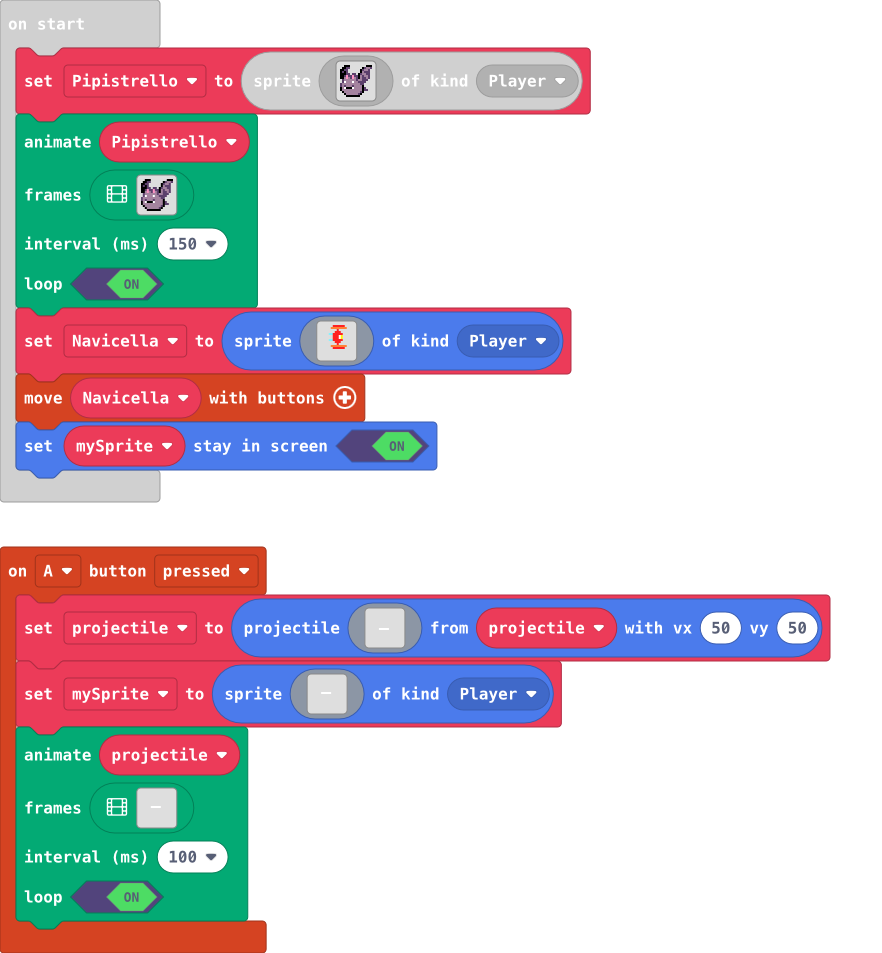
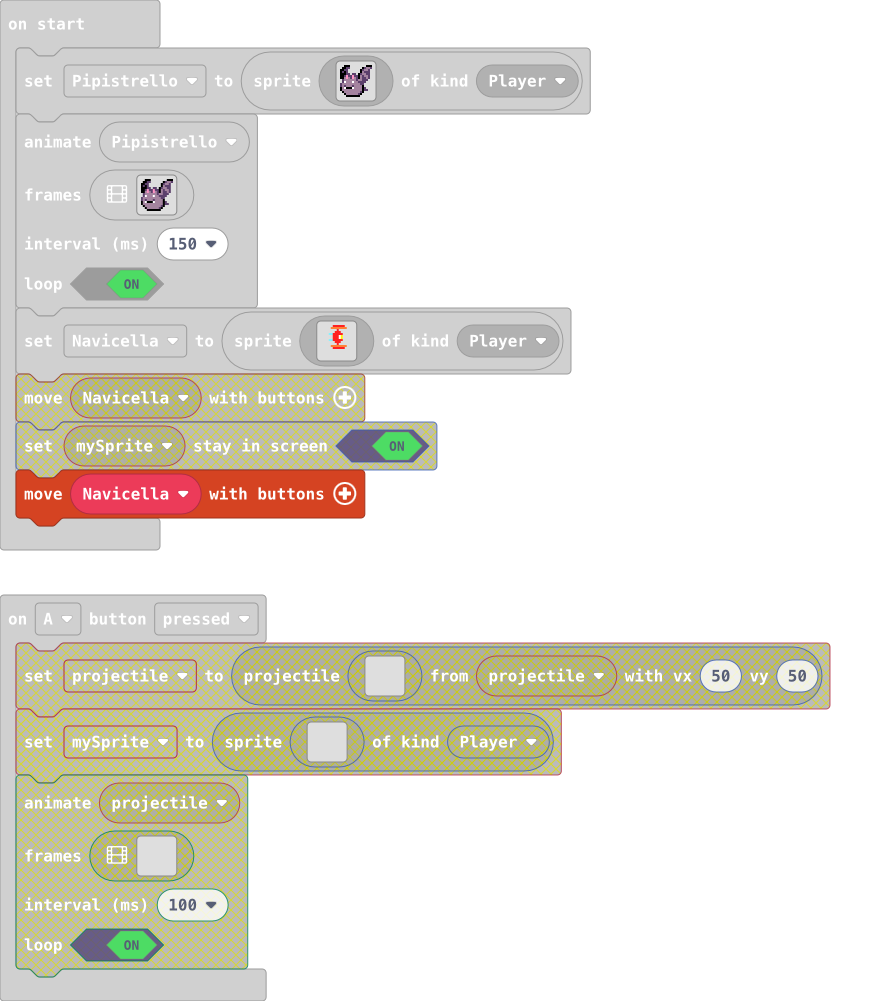
Update pxt.json, main.blocks, main.ts

diff --git a/main.ts b/main.ts
@@ -1,66 +1,6 @@
 controller.A.onEvent(ControllerButtonEvent.Pressed, function () {
-    projectile = sprites.createProjectileFromSprite(img`
-        . . . . . . . . . . . . . . . . 
-        . . . . . . . . . . . . . . . . 
-        . . . . . . . . . . . . . . . . 
-        . . . . . . . . . . . . . . . . 
-        . . . . . . . . . . . . . . . . 
-        . . . . . . . . . . . . . . . . 
-        . . . . . . . . . . . . . . . . 
-        . . . . . . . . . . . . . . . . 
-        . . . . . 1 1 1 1 1 . . . . . . 
-        . . . . . . . . . . . . . . . . 
-        . . . . . . . . . . . . . . . . 
-        . . . . . . . . . . . . . . . . 
-        . . . . . . . . . . . . . . . . 
-        . . . . . . . . . . . . . . . . 
-        . . . . . . . . . . . . . . . . 
-        . . . . . . . . . . . . . . . . 
-        `, projectile, 50, 50)
-    mySprite = sprites.create(img`
-        . . . . . . . . . . . . . . . . 
-        . . . . . . . . . . . . . . . . 
-        . . . . . . . . . . . . . . . . 
-        . . . . . . . . . . . . . . . . 
-        . . . . . . . . . . . . . . . . 
-        . . . . . . . . . . . . . . . . 
-        . . . . . . . . . . . . . . . . 
-        . . . . . 1 1 1 1 1 . . . . . . 
-        . . . . . . . . . . . . . . . . 
-        . . . . . . . . . . . . . . . . 
-        . . . . . . . . . . . . . . . . 
-        . . . . . . . . . . . . . . . . 
-        . . . . . . . . . . . . . . . . 
-        . . . . . . . . . . . . . . . . 
-        . . . . . . . . . . . . . . . . 
-        . . . . . . . . . . . . . . . . 
-        `, SpriteKind.Player)
-    animation.runImageAnimation(
-    projectile,
-    [img`
-        . . . . . . . . . . . . . . . . 
-        . . . . . . . . . . . . . . . . 
-        . . . . . . . . . . . . . . . . 
-        . . . . . . . . . . . . . . . . 
-        . . . . . . . . . . . . . . . . 
-        . . . . . . . . . . . . . . . . 
-        . . . . . . . . . . . . . . . . 
-        . . . . . 1 1 1 1 1 . . . . . . 
-        . . . . . . . . . . . . . . . . 
-        . . . . . . . . . . . . . . . . 
-        . . . . . . . . . . . . . . . . 
-        . . . . . . . . . . . . . . . . 
-        . . . . . . . . . . . . . . . . 
-        . . . . . . . . . . . . . . . . 
-        . . . . . . . . . . . . . . . . 
-        . . . . . . . . . . . . . . . . 
-        `],
-    100,
-    true
-    )
+	
 })
-let projectile: Sprite = null
-let mySprite: Sprite = null
 let Pipistrello = sprites.create(assets.image`Pipistrello`, SpriteKind.Player)
 animation.runImageAnimation(
 Pipistrello,
@@ -155,4 +95,3 @@ let Navicella = sprites.create(img`
     . . . . . . . . . . . . . . . . 
     `, SpriteKind.Player)
 controller.moveSprite(Navicella)
-mySprite.setStayInScreen(true)
